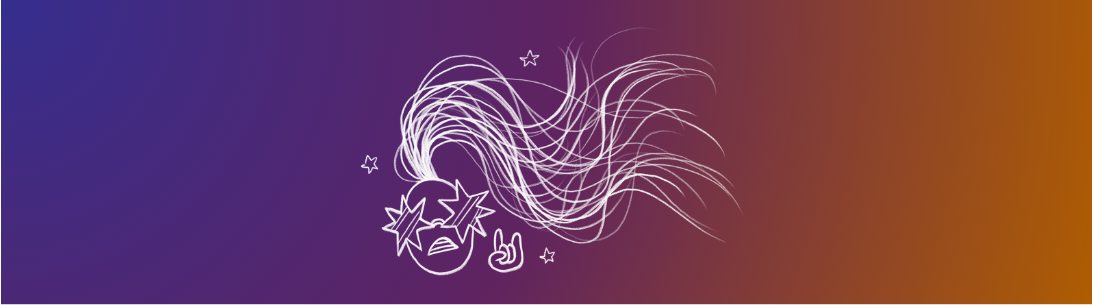
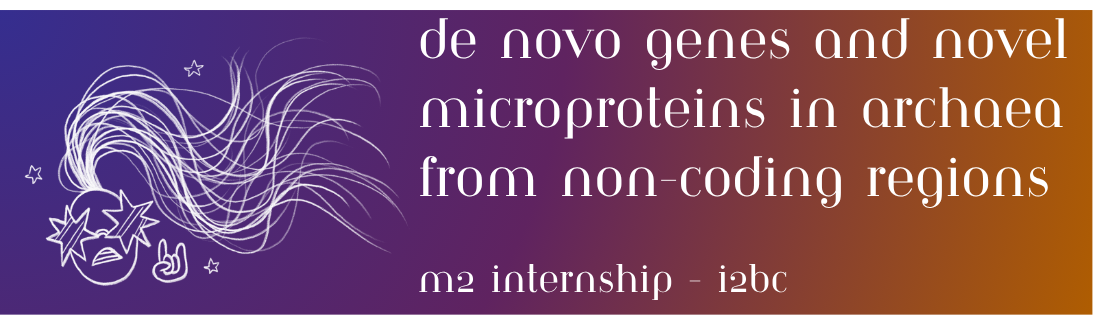
Use image as title

Changed region(s): [[0.0, 0.0, 1.0, 1.0], [0.6532, 0.8557, 0.7155, 0.9443], [0.6221, 0.7082, 0.6532, 0.7672]]

diff --git a/README.md b/README.md
@@ -1,10 +1,8 @@
-## M2 Internship - I2BC
-## De novo Genes and Novel Microproteins in Archaea from Non-coding Regions
+![Rocking Archaea](doc/rocking_archaea.png)
+
 **Eliott Tempez** - Université Paris Cité
 
 This internship was carried out from January 2025 to July 2025 at the Institute for Integrative Biology of the Cell (I2BC) under the supervision of **Anne Lopes**.
-
-![Rocking Archaea](doc/rocking_archaea.png)
 
 ### Folders
 `--- scripts` list of scripts created during the internship
